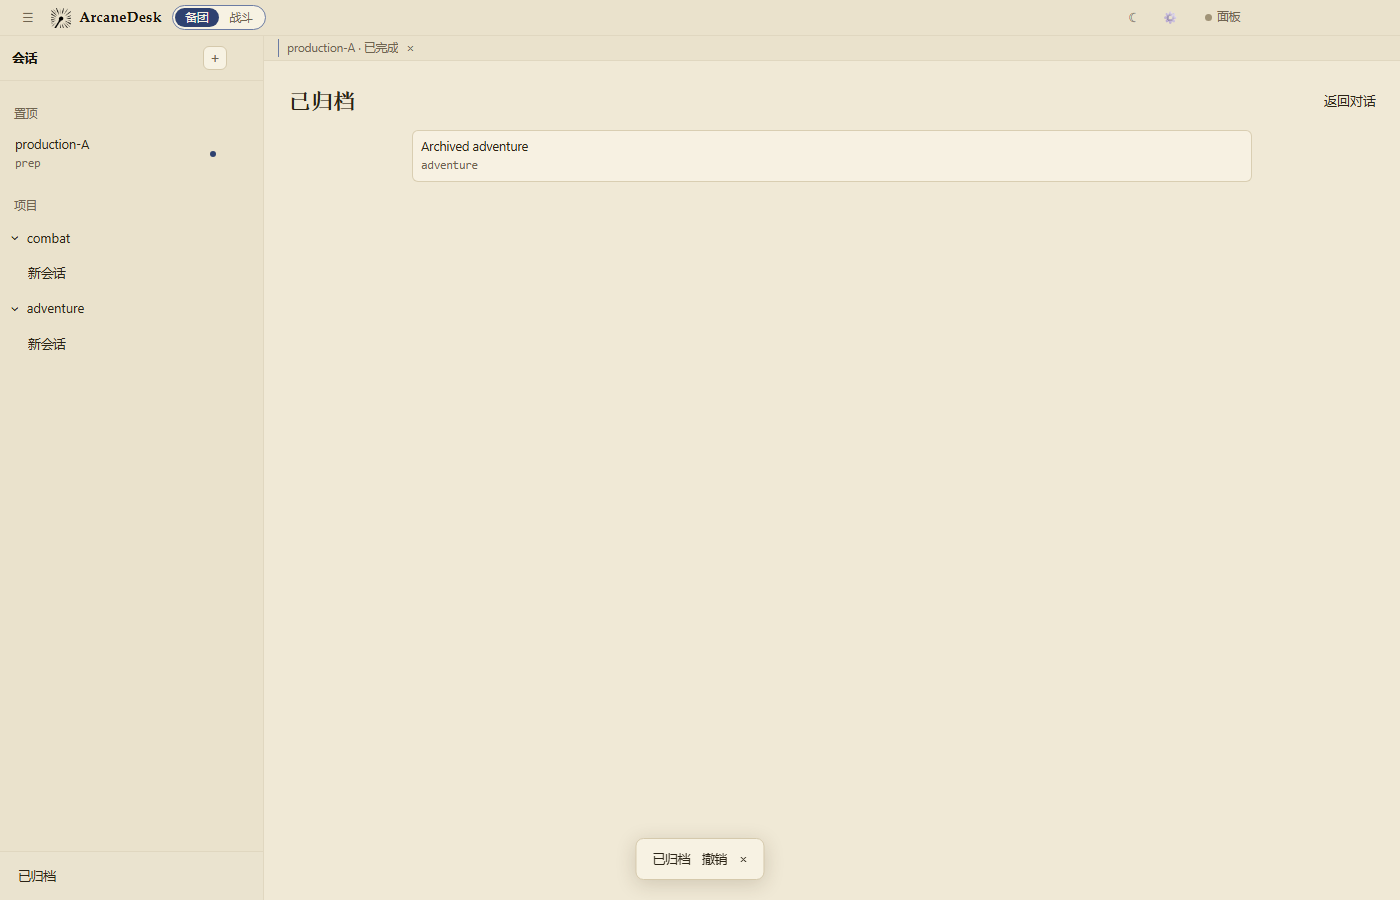
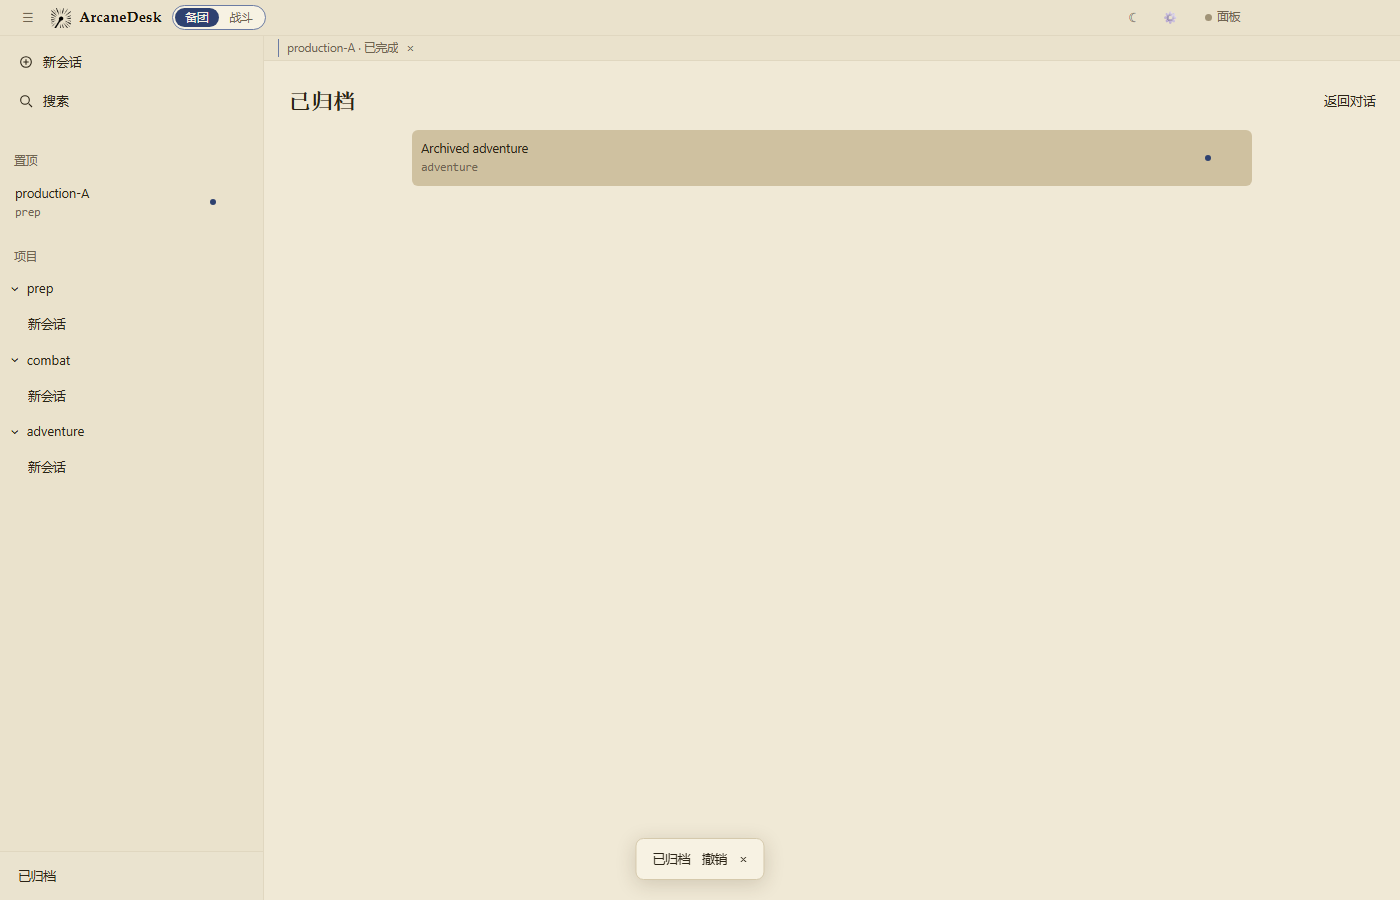
feat(desktop): adopt full-row sidebar actions and session search

diff --git a/apps/desktop/src/renderer/conversations/navigation-view.js b/apps/desktop/src/renderer/conversations/navigation-view.js
@@ -116,8 +116,8 @@
           const state = node("span", "s-state");
           const menu = node("button", "s-menu", "⋯"); menu.type = "button"; menu.title = this.t("navigation.menu"); menu.setAttribute("aria-label", menu.title); menu.setAttribute("aria-haspopup", "menu");
           const current = () => this.rows.get(row.id);
-          body.addEventListener("click", () => { this.reveal(row.id); this.showArchives(false); void this.open(current()); });
-          menu.addEventListener("click", () => this.openMenu(current(), menu));
+          item.addEventListener("click", () => { this.reveal(row.id); this.showArchives(false); void this.open(current()); });
+          menu.addEventListener("click", event => { event.stopPropagation(); this.openMenu(current(), menu); });
           item.addEventListener("contextmenu", event => { event.preventDefault(); this.openMenu(current(), menu, event); });
           item.append(body, state, menu); this.items.set(row.id, item);
         }
@@ -158,6 +158,35 @@
       menu.style.top = Math.max(8, Math.min(event?.clientY ?? rect.bottom, innerHeight - menu.offsetHeight - 8)) + "px";
       menu.addEventListener("keydown", event => { if (!["ArrowDown", "ArrowUp", "Home", "End", "Tab"].includes(event.key)) return; if (event.key === "Tab") { this.closeMenu(); return; } event.preventDefault(); const buttons = [...menu.querySelectorAll("button:not(:disabled)")]; const index = buttons.indexOf(document.activeElement); buttons[event.key === "Home" ? 0 : event.key === "End" ? buttons.length - 1 : (index + (event.key === "ArrowUp" ? -1 : 1) + buttons.length) % buttons.length]?.focus(); });
       menu.querySelector("button:not(:disabled)")?.focus();
+    }
+    search() {
+      if (this.searchDialog?.open) { this.searchDialog.querySelector("input").focus(); return; }
+      this.closeMenu(false);
+      const dialog = node("dialog", "session-dialog session-search"), input = node("input"), results = node("div", "search-results");
+      this.searchDialog = dialog; dialog.setAttribute("aria-label", this.t("navigation.search"));
+      input.type = "search"; input.placeholder = this.t("navigation.searchPlaceholder"); input.setAttribute("aria-label", input.placeholder);
+      results.setAttribute("aria-live", "polite");
+      const render = () => {
+        const terms = input.value.trim().toLocaleLowerCase().split(/\s+/).filter(Boolean);
+        results.replaceChildren();
+        const matches = [...this.rows.values()].filter(row => terms.every(term => `${this.title(row)} ${row.cwd ?? ""}`.toLocaleLowerCase().includes(term)));
+        if (!matches.length) results.append(node("p", "nav-empty", this.t("navigation.searchEmpty")));
+        for (const row of matches) {
+          const button = node("button", "search-result"); button.type = "button";
+          button.append(node("span", "s-title", this.title(row)), node("span", "s-meta", (row.cwd || this.t("navigation.unknownProject")) + (row.archivedAt != null ? " · " + this.t("navigation.archived") : "")));
+          button.onclick = () => { const current = this.rows.get(row.id); if (!current) { render(); return; } dialog.close(); this.reveal(row.id); this.showArchives(false); void this.open(current); };
+          results.append(button);
+        }
+      };
+      input.oninput = render;
+      dialog.addEventListener("keydown", event => {
+        const buttons = [...results.querySelectorAll("button")];
+        if (event.key === "Enter" && document.activeElement === input) { event.preventDefault(); buttons[0]?.click(); }
+        if (["ArrowDown", "ArrowUp"].includes(event.key)) { event.preventDefault(); const index = buttons.indexOf(document.activeElement); if (event.key === "ArrowUp" && index <= 0) input.focus(); else buttons[(index + 1 * (event.key === "ArrowDown" ? 1 : -1) + buttons.length) % buttons.length]?.focus(); }
+      });
+      dialog.addEventListener("click", event => { const rect = dialog.getBoundingClientRect(); if (event.target === dialog && (event.clientX < rect.left || event.clientX > rect.right || event.clientY < rect.top || event.clientY > rect.bottom)) dialog.close(); });
+      dialog.onclose = () => { dialog.remove(); this.searchDialog = null; document.getElementById("session-search").focus(); };
+      dialog.append(input, results); document.body.append(dialog); render(); dialog.showModal(); input.focus();
     }
     async dialog(row, rename) {
       const dialog = node("dialog", "session-dialog"), form = node("form"); form.method = "dialog";

diff --git a/apps/desktop/src/renderer/conversations/navigation.css b/apps/desktop/src/renderer/conversations/navigation.css
@@ -58,3 +58,23 @@ body.archived-session #composer-wrap { display: none; }
 :is(.nav-project, .session-item, .session-menu, .session-dialog, #archive-page, #archive-readonly, #session-drawer, #navigation-toast) :is(button, input):focus-visible { outline: 2px solid var(--accent); outline-offset: 2px; }
 @media (hover: none) { .nav-project-new, .s-menu { opacity: 1; } }
 @media (prefers-reduced-motion: reduce) { .s-state[data-kind="running"] { animation: none; } .nav-chevron { transition: none; } }
+
+/* One consistent full-row target for navigation and actions. */
+:root { --nav-hover: #293344; --nav-selected: #344157; }
+:root[data-theme="light"] { --nav-hover: #d9ceb3; --nav-selected: #cfc1a0; }
+.drawer-actions { padding: 8px 6px; display: flex; flex-direction: column; gap: 2px; flex: none; }
+.drawer-action { display: flex; align-items: center; gap: 9px; width: 100%; min-height: 36px; padding: 8px 12px; border: 0; border-radius: 6px; background: transparent; color: var(--text); font: inherit; text-align: left; cursor: pointer; }
+.drawer-action svg { width: 16px; height: 16px; fill: none; stroke: currentColor; stroke-width: 1.6; flex: none; }
+.drawer-action:hover, .drawer-action:focus-visible, .session-item:hover, .session-item:focus-within, .search-result:hover, .search-result:focus-visible { background: var(--nav-hover); }
+.session-item.active, .session-item.active:hover { background: var(--nav-selected); border-color: transparent; }
+.session-item .s-body { align-self: stretch; padding: 4px 0; }
+.session-item .s-menu:hover { background: var(--nav-selected); }
+.session-dialog { margin: auto; }
+.session-search { width: min(600px, calc(100vw - 32px)); height: min(520px, calc(100vh - 64px)); padding: 12px; }
+.session-search[open] { display: flex; flex-direction: column; }
+body.with-panel .session-search { width: min(600px, calc(100vw - var(--panel-w, 0px) - 24px)); margin-left: max(12px, calc((100vw - var(--panel-w, 0px) - 600px) / 2)); margin-right: auto; }
+.search-results { max-height: min(55vh, 480px); overflow: auto; margin-top: 8px; }
+.session-search .search-result { display: flex; flex-direction: column; width: 100%; text-align: left; background: transparent; border: 0; border-radius: 6px; padding: 10px; }
+.search-result .s-title, .search-result .s-meta { overflow: hidden; text-overflow: ellipsis; white-space: nowrap; max-width: 100%; }
+.search-result .s-meta { color: var(--muted); font-size: var(--fs-meta); }
+.session-search .search-result:hover, .session-search .search-result:focus-visible { background: var(--nav-hover); }

diff --git a/apps/desktop/src/renderer/chat.js b/apps/desktop/src/renderer/chat.js
@@ -500,6 +500,7 @@ function receiveEvent(event, replay = false) {
     void refreshSessions(); return;
   }
   if (event.type === "shutdown_state") { showShutdown(event); return; }
+  if (event.type === "panel_pointer") { navigationView?.searchDialog?.close(); setDrawer(false); return; }
   if (event.type === "activity_removed") forgetSession(event.sessionId);
   else if (event.sessionId && deletedSessions.has(event.sessionId)) return;
   if (event.type === "notification_target") { if (activityReady) void openNotificationTarget(); return; }
@@ -2221,8 +2222,11 @@ document.getElementById("sessions-toggle").addEventListener("click", () =>
   setDrawer(!drawer.classList.contains("open"))
 );
 drawerBackdrop.addEventListener("click", () => setDrawer(false));
-document.getElementById("drawer-close").addEventListener("click", () => setDrawer(false));
-document.addEventListener("keydown", event => { if (event.key === "Escape") setDrawer(false); });
+document.addEventListener("pointerdown", event => {
+  if (event.target instanceof Element && drawer.classList.contains("open") && !drawer.contains(event.target) && !event.target.closest("#sessions-toggle, dialog, .session-menu")) setDrawer(false);
+});
+document.addEventListener("keydown", event => { if (event.key === "Escape" && !document.querySelector("dialog[open]")) setDrawer(false); });
+document.getElementById("session-search").addEventListener("click", () => navigationView?.search());
 document.getElementById("session-new").addEventListener("click", () => {
   const row = navigationView?.rows.get(selectedSessionId);
   void createProjectSession(row?.cwd ?? undefined);

diff --git a/apps/desktop/src/renderer/index.html b/apps/desktop/src/renderer/index.html
@@ -1624,7 +1624,10 @@
     <p class="telemetry-consent-foot" data-i18n="telemetry.consent.foot">不影响任何功能；之后可在「设置 → 通用」中随时更改。</p>
   </section>
   <aside id="session-drawer">
-    <div class="drawer-head"><span data-i18n="sessions.drawerTitle">会话</span><div><button id="session-new" title="新会话" data-i18n-title="sessions.new">+</button><button id="drawer-close" data-i18n-title="settings.close" title="关闭">×</button></div></div>
+    <div class="drawer-actions">
+      <button id="session-new" class="drawer-action" type="button"><svg aria-hidden="true" viewBox="0 0 24 24"><circle cx="12" cy="12" r="8"/><path d="M12 8v8M8 12h8"/></svg><span data-i18n="sessions.new">新会话</span></button>
+      <button id="session-search" class="drawer-action" type="button"><svg aria-hidden="true" viewBox="0 0 24 24"><circle cx="10.5" cy="10.5" r="6.5"/><path d="m16 16 5 5"/></svg><span data-i18n="navigation.search">搜索</span></button>
+    </div>
     <button id="navigation-retry" type="button" data-i18n="navigation.storageFailed" hidden></button>
     <div id="session-list"></div>
     <button id="session-archives" type="button" data-i18n="navigation.archives">已归档</button>

diff --git a/apps/desktop/src/shared/i18n/messages.js b/apps/desktop/src/shared/i18n/messages.js
@@ -9,6 +9,9 @@
 
 globalThis.ARCANE_MESSAGES = {
   "zh-CN": {
+    "navigation.search": "搜索",
+    "navigation.searchPlaceholder": "搜索会话标题或项目…",
+    "navigation.searchEmpty": "没有匹配的会话",
     "navigation.pinned": "置顶",
     "navigation.projects": "项目",
     "navigation.archives": "已归档",
@@ -465,6 +468,9 @@ globalThis.ARCANE_MESSAGES = {
   },
 
   "en-US": {
+    "navigation.search": "Search",
+    "navigation.searchPlaceholder": "Search session titles or projects…",
+    "navigation.searchEmpty": "No matching sessions",
     "navigation.pinned": "Pinned",
     "navigation.projects": "Projects",
     "navigation.archives": "Archived",

diff --git a/apps/desktop/src/renderer/conversations/activity.css b/apps/desktop/src/renderer/conversations/activity.css
@@ -34,7 +34,6 @@ body:has(#activity-jump:not([hidden])) #scroll-bottom { display: none; }
 .session-item:focus-within .s-del { opacity: 1; }
 body.sidebar-pinned #session-drawer { transform: none; box-shadow: none; }
 body.sidebar-pinned #drawer-backdrop { display: none; }
-body.sidebar-pinned #drawer-close { visibility: hidden; }
 body.sidebar-pinned > :is(#activity-bar, #conversation-title, #conversation-sync, #conversation-task-status, #conversation-model-pending, #messages, #composer-wrap) { margin-left: 264px; }
 #session-drawer { max-width: calc(100% - var(--panel-w, 0px)); }
 #activity-bar [hidden], #activity-jump[hidden], #activity-empty[hidden] { display: none; }

diff --git a/apps/desktop/src/main/main.js b/apps/desktop/src/main/main.js
@@ -348,6 +348,9 @@ async function openFoundryView(rawUrl) {
     });
     mainWindow.contentView.addChildView(foundryView);
     const panelWebContents = foundryView.webContents;
+    panelWebContents.on("before-mouse-event", (_event, mouse) => {
+      if (mouse.type === "mouseDown") sendToRenderer({ type: "panel_pointer" });
+    });
     if (process.platform === "win32") bindFullScreenHotkey(panelWebContents); // 焦点在 Foundry 里 F11 也生效
     panelWebContents.on("did-start-navigation", (_event, url, isInPlace, isMainFrame) => {
       if (isMainFrame === false || isInPlace) return;

diff --git a/apps/desktop/docs/architecture.md b/apps/desktop/docs/architecture.md
@@ -10,6 +10,10 @@
 
 一个左侧栏分成上下两区：上方手动置顶，下方按项目文件夹聚合。保留新建会话入口，底部提供“已归档”入口。右侧仍为对话及既有 Foundry 面板，不增加新的一列。
 
+侧栏顶部为“新会话”“搜索”两整行按钮，图标、文字和留白属于同一点击区域；会话整行同样可点击，⋯ 菜单独立处理、不触发打开。悬停使用统一加深底色，当前会话保持选中底色。覆盖式抽屉不提供 ×，点击外部、右侧 Foundry 面板或按 Escape 收起；宽屏固定侧栏保留。Foundry 原生视图以 before-mouse-event 转发 panel_pointer，使点击独立 WebContentsView 也可收起。
+
+搜索为本地标题／项目匹配，包含已归档记录并明确标注；点击归档结果仍只读。输入框明确范围，不宣称全文搜索。使用现有导航摘要，无新增 IPC、数据库或索引服务。搜索弹层点击外部或 Escape 关闭，方向键选择、Enter 打开；分屏时位于聊天区域。Pi SDK 的 SessionInfo 提供 allMessagesText，终端有内部搜索组件，但未提供独立公开搜索 API，本轮不依赖内部模块或扫描全部正文。
+
 - 置顶后只在置顶区出现；取消置顶回原项目。置顶不更改目录、模式或任务状态。
 - 项目以规范化的绝对工作目录为标识，文件夹名用于展示。同名不同路径不合并，必要时展示父目录；历史目录缺失的记录归入“未指定目录”。第一版按路径聚合，不自动合并符号链接别名。
 - 置顶按用户置顶顺序排列，新置顶追加；项目及会话以载入时的稳定顺序显示。流片、完成、未读变化只更新原行。新建会话插入所属组顶部，恢复和取消置顶插回所属组，不重排其他行。

diff --git a/apps/desktop/docs/spec.md b/apps/desktop/docs/spec.md
@@ -58,6 +58,8 @@
 - 会话运行、排队、等待资源或正在停止时，在行末显示小转圈；停止确认或完成后清除。普通状态变化不重排、不复制会话。具体过程和状态说明在对话区展示。
 - 正常消息不保留发送成功或“已交给助手”的回执小字。尚未处理时可显示简短等待状态，处理后移除；发送失败、未处理及接收未确认保留具体状态。刷新和切回会话遵守同一规则。
 - 空置顶区隐藏，不放操作教学；输入框不常驻“开始新任务／补充当前任务”，动作名称留在发送按钮的悬停和无障碍标签。每轮结束不往历史插入“agent 就绪”。
+- 侧栏顶部用“新会话／搜索”两整行入口，不用孤立加号。所有会话整行加深悬停、点击有效；⋯ 是明确的独立菜单入口。抽屉无关闭 ×，点击外部或 Escape 收起。
+- 搜索匹配会话标题和项目目录，支持键盘选择并打开，归档结果保持只读；当前不提供全文搜索。
 - 未读及需要回应的标记位于会话行内，不新增活动列表。等待用户时不用持续转圈暗示仍在自动执行。
 - 宽窗口常驻侧栏，窄窗口可收起；保留侧栏展开入口，不再常驻显示运行数/待处理数横栏。
 

diff --git a/apps/desktop/docs/sidebar-navigation.md b/apps/desktop/docs/sidebar-navigation.md
@@ -4,6 +4,10 @@
 
 ## Kimi 参考核对
 
+2026-09-07 补充实际内置浏览器操作：用户提供的 localhost:58627 界面，登录后验证新建行右侧留白可点击、整行悬停加深、搜索弹层键盘选择和点击外部关闭，并截图检查。Kimi 的会话行尾在悬停时出现置顶／归档快捷按钮；测试时误触归档已从设置恢复，原会话留在列表。ArcaneDesk 只参考整行命中和搜索入口，保留明确 ⋯ 菜单，不复刻行尾快捷归档。没有向 Kimi 提交新消息。
+
+本地 Pi 0.84.3：`dist/core/session-manager.d.ts` 的 SessionInfo 包含 name、cwd、firstMessage、allMessagesText；`dist/modes/interactive/components/session-selector-search.js` 实现终端过滤。没有独立公开搜索 API，本轮选择现有导航摘要的标题／目录轻量搜索。唯一行为定义见 architecture.md。
+
 已浅克隆两个官方仓库，未安装依赖或运行其服务：
 
 | 仓库 | 本地目录 | 核对版本 |

diff --git a/apps/desktop/docs/navigation-evidence/README.md b/apps/desktop/docs/navigation-evidence/README.md
@@ -8,6 +8,7 @@
 | --- | --- |
 | 置顶及同名不同项目，A/B 同时运行 | [running-projects](running-projects.png) |
 | 会话右键菜单 | [session-menu](session-menu.png) |
+| 标题／项目搜索弹层 | [search](search.png) |
 | 已归档页面 | [archives](archives.png) |
 | 宽窗口 | [wide](wide.png) |
 | 窄窗口 | [minimum](minimum.png) |
